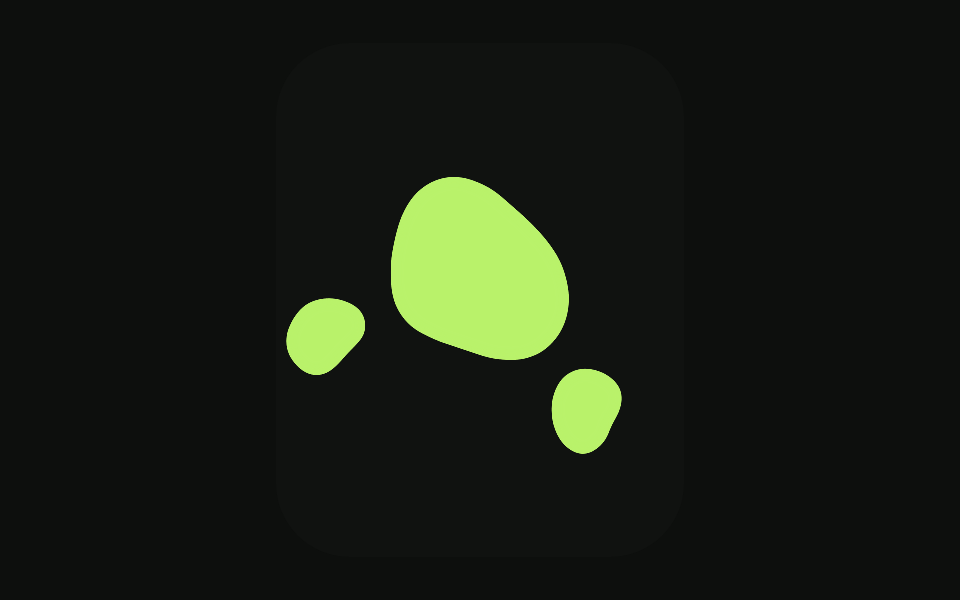
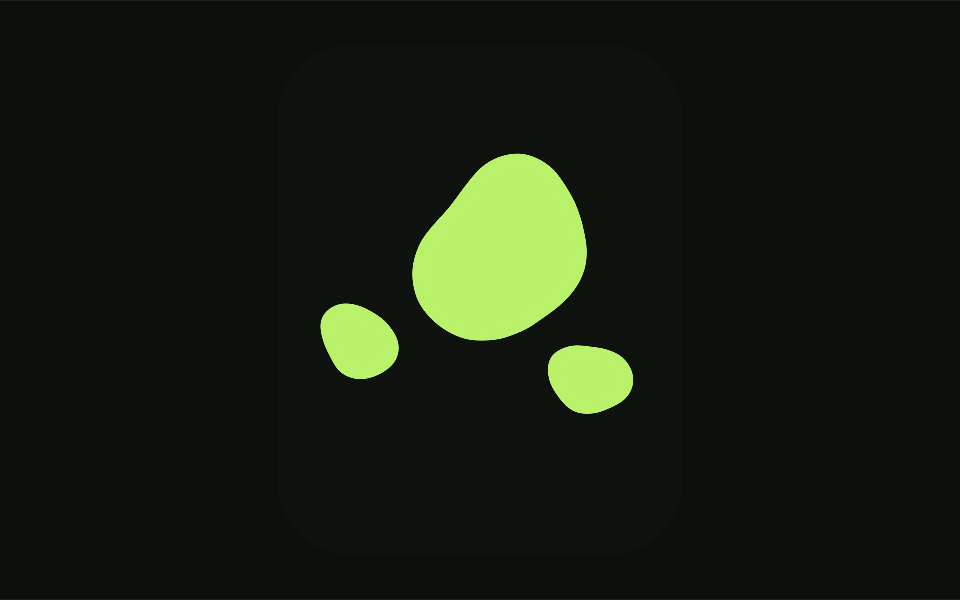
fix(tools): loop the Blobbies thumbnail on its own, centred in the lamp
- The animation dropped its 16-second rising intro, which carried the
  blobs to the top of the lamp and made them jump on hover. It now
  starts straight into the 30-second loop, shifted to sit centred.
- The still PNG is re-rendered from the loop's first frame, so the
  swap to the animation shows no jump.
- The card plays the loop without a hover for visitors who allow
  motion; reduced-motion visitors keep the still.

Changed region(s): [[0.2812, 0.24, 0.6562, 0.78]]

diff --git a/src/data/tools.ts b/src/data/tools.ts
@@ -43,8 +43,8 @@ export interface Tool {
 	/** The dark capture, for a tool that has both themes. The card shows the one matching the site theme. */
 	imageDark?: ImageMetadata;
 	/**
-	 * An animated version of `image`. The card plays it only while hovered, and only for
-	 * visitors who allow motion, so nothing on the page moves on its own.
+	 * An animated version of `image`, starting on the same frame. The card plays it on a loop
+	 * for visitors who allow motion; visitors who ask for reduced motion see `image` instead.
 	 */
 	imageMotion?: ImageMetadata;
 	/** True while the tool is unreleased: no public repository or download yet. */
